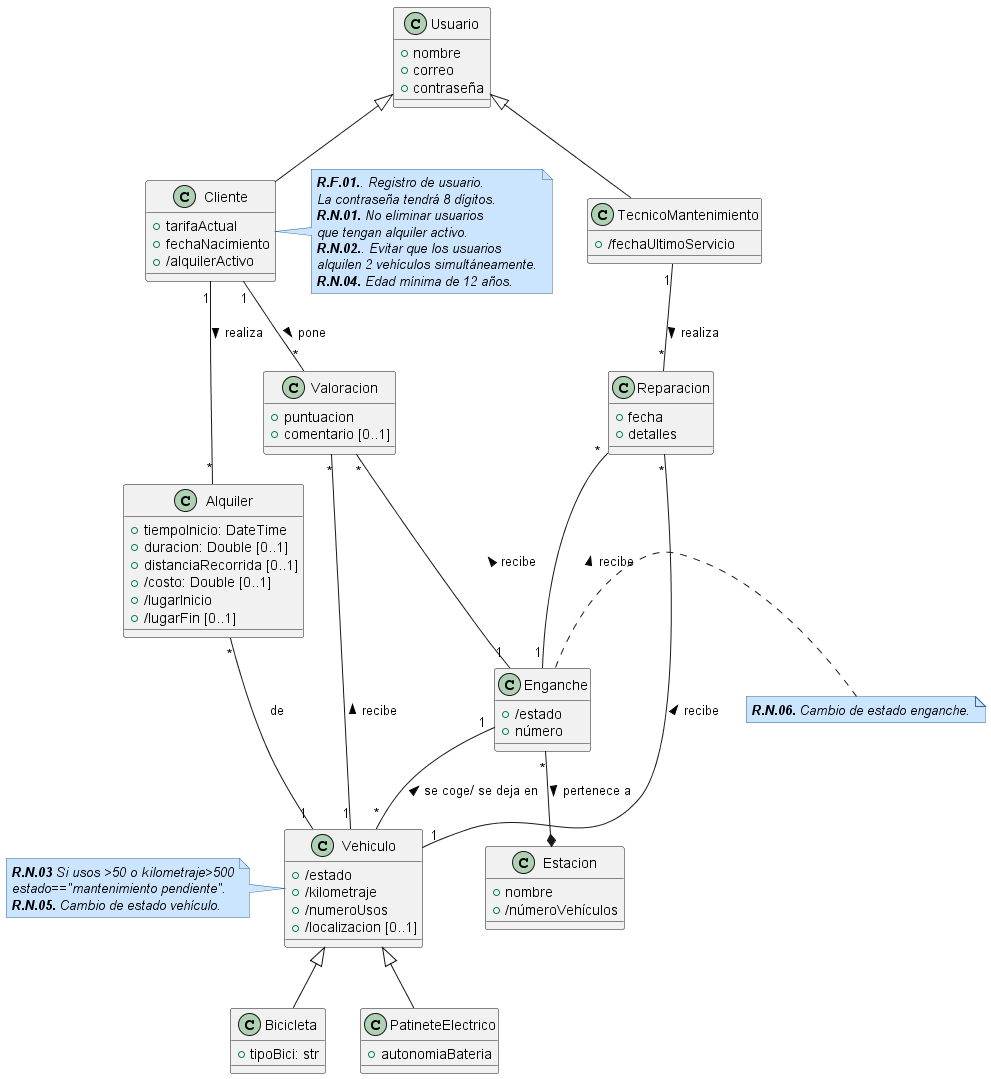
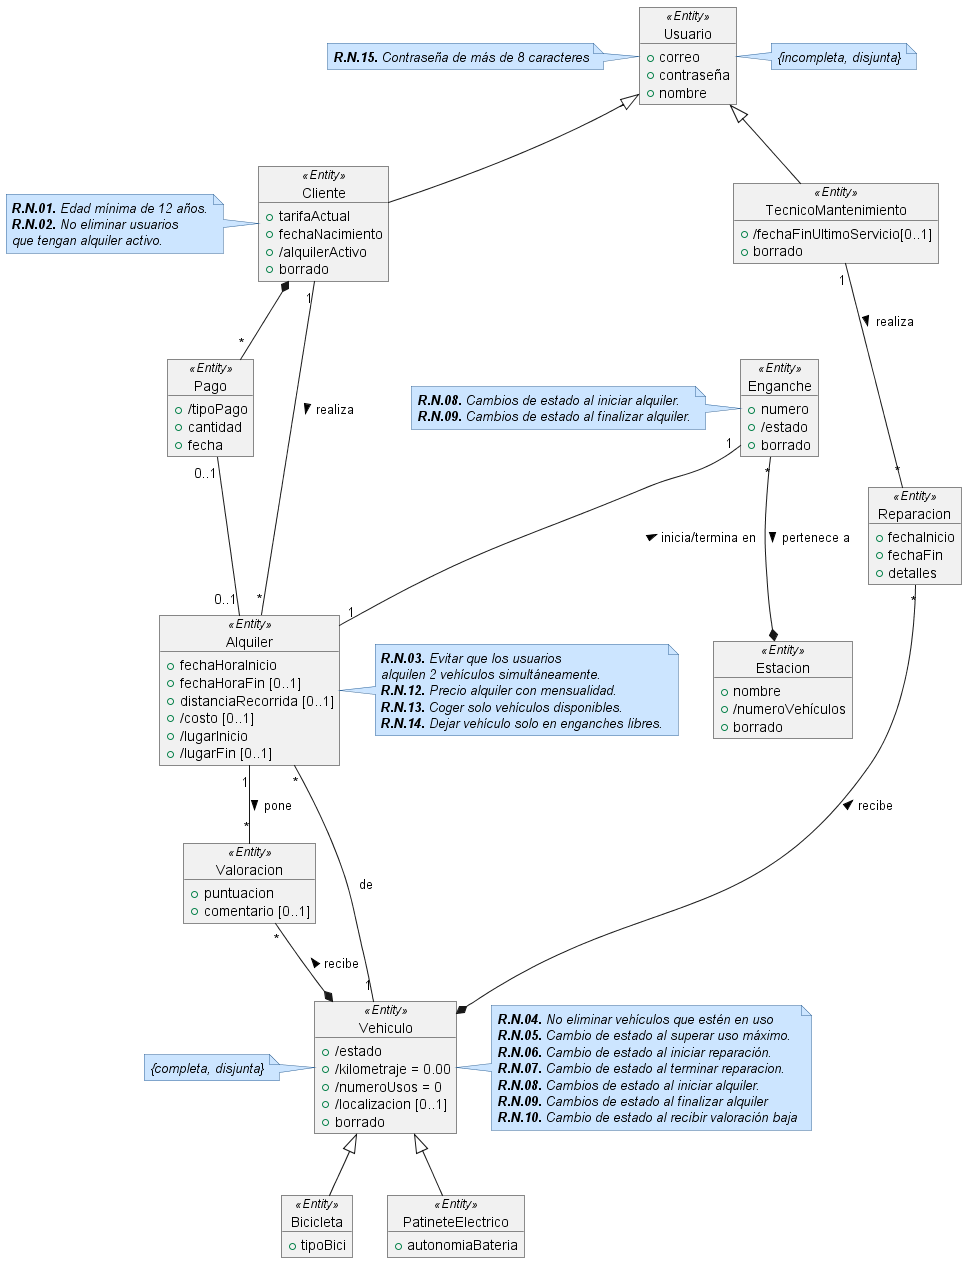
Update modelos_conceptuales

diff --git a/README.md b/README.md
@@ -580,6 +580,10 @@ Como administrador de EasyVPM,<br>
 quiero que las contraseñas sean igual o más largas que los 8 dígitos,<br>
 para intentar que las cuentas de los usuarios estén más protegidas.
 
+#### R.N.16. Valoración con puntuación del 1 al 5
+Como administrador de EasyVPM,<br>
+quiero que las valoraciones tengan una puntuación del 1 al 5.
+
 
 ### 4.2. Mapa de historias de usuario (opcional)
 